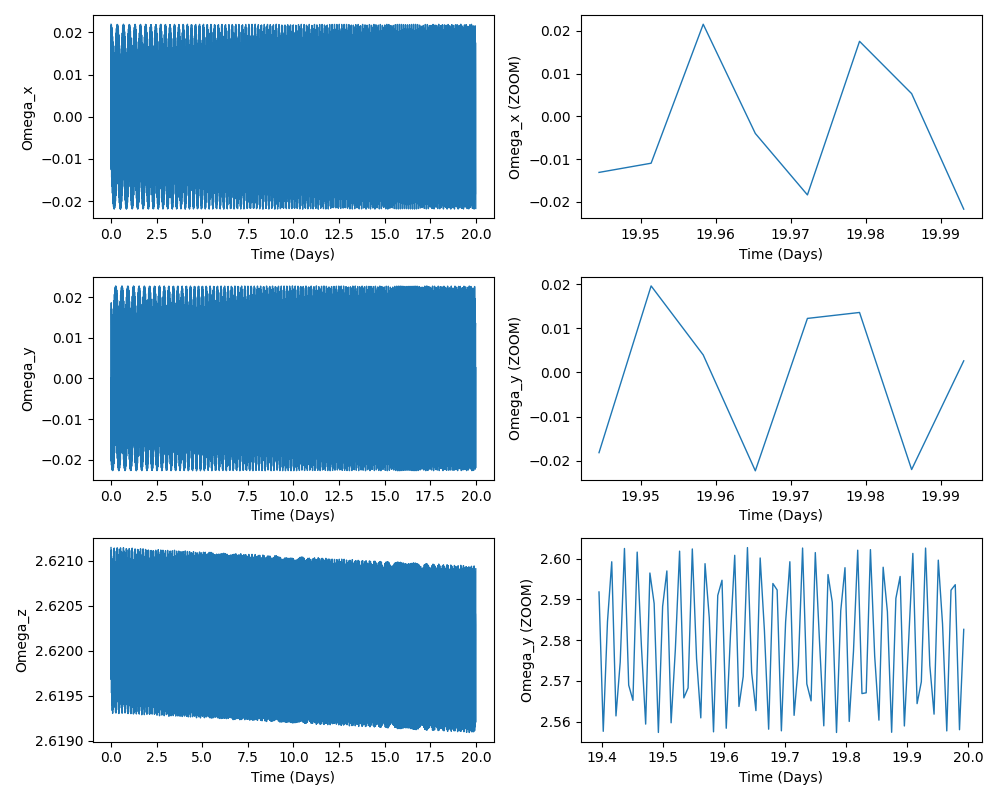
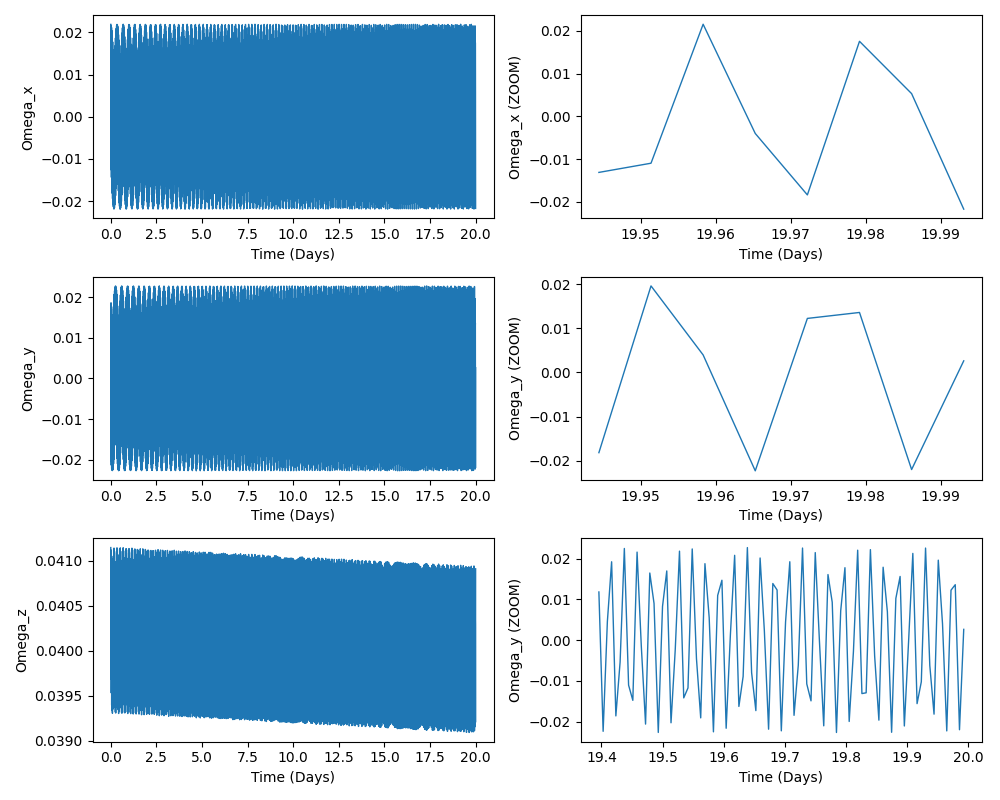
fig16 envisat

diff --git a/visualisation.py b/visualisation.py
@@ -208,11 +208,11 @@ plt.xlabel('Time (Days)')
 plt.ylabel('Omega_y (ZOOM)')
 
 plt.subplot(325)
-plt.plot(times, [2.58 + a[2] for a in angular_velocities_BF],linewidth=1.)
+plt.plot(times, [a[2] for a in angular_velocities_BF],linewidth=1.)
 plt.xlabel('Time (Days)')
 plt.ylabel('Omega_z')
 plt.subplot(326)
-plt.plot(times[Nlines-87:], [2.58 + a[1] for a in angular_velocities_BF[Nlines-87:]],linewidth=1.)
+plt.plot(times[Nlines-87:], [ a[1] for a in angular_velocities_BF[Nlines-87:]],linewidth=1.)
 plt.xlabel('Time (Days)')
 plt.ylabel('Omega_y (ZOOM)')
 
